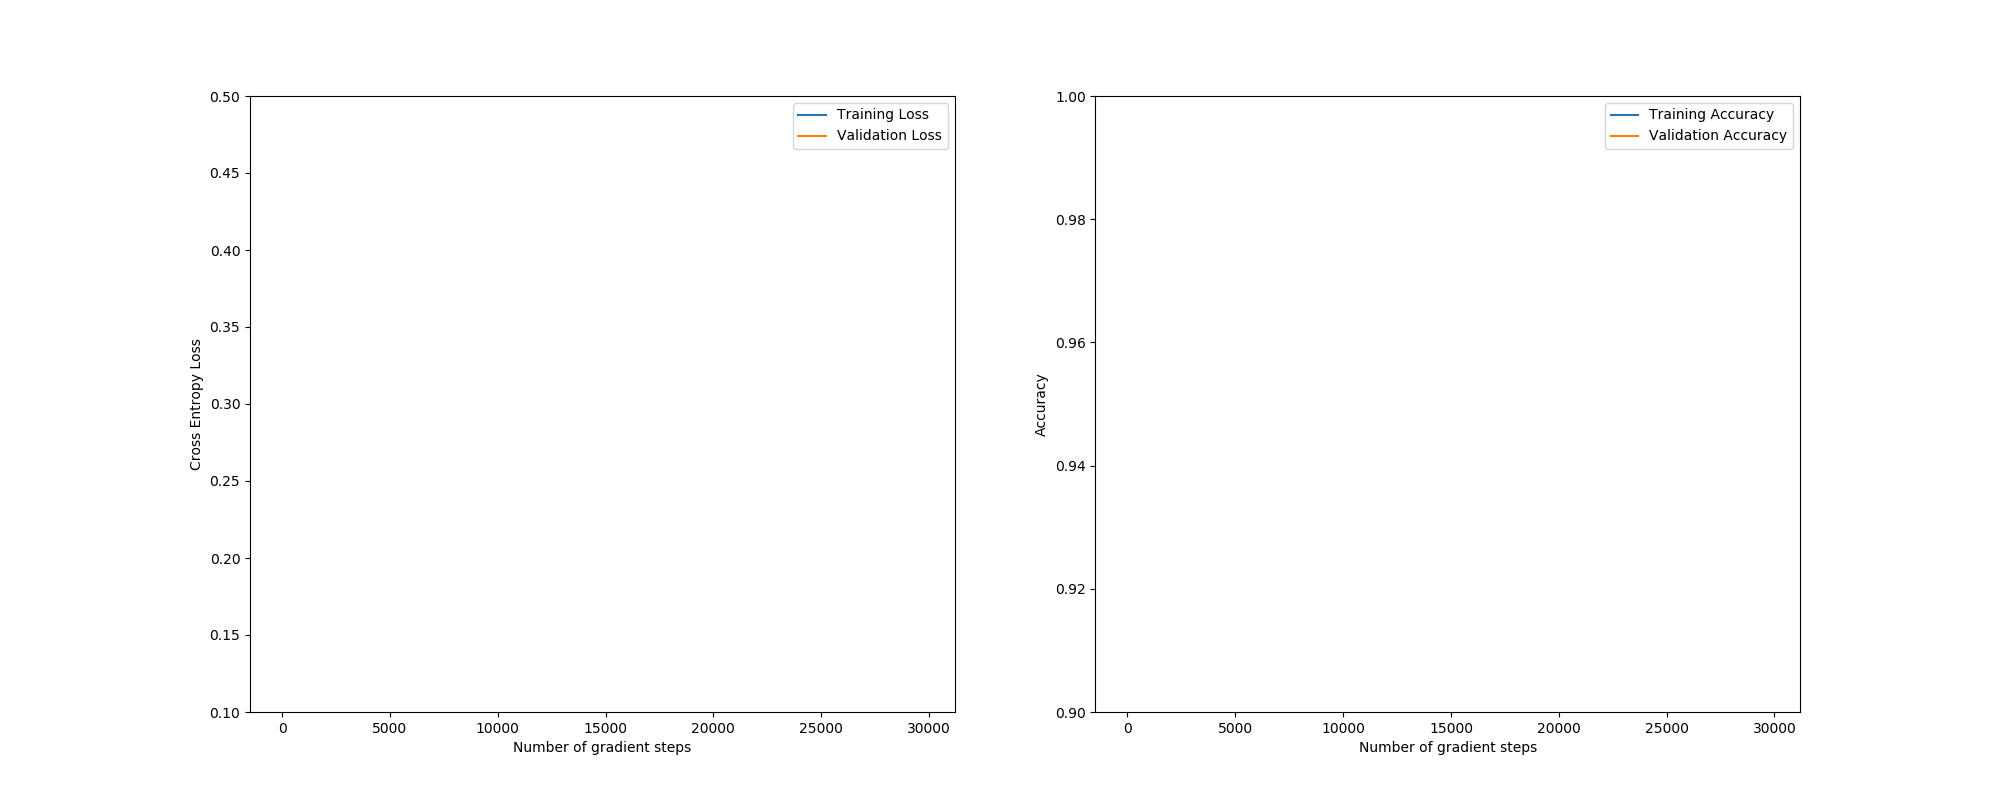
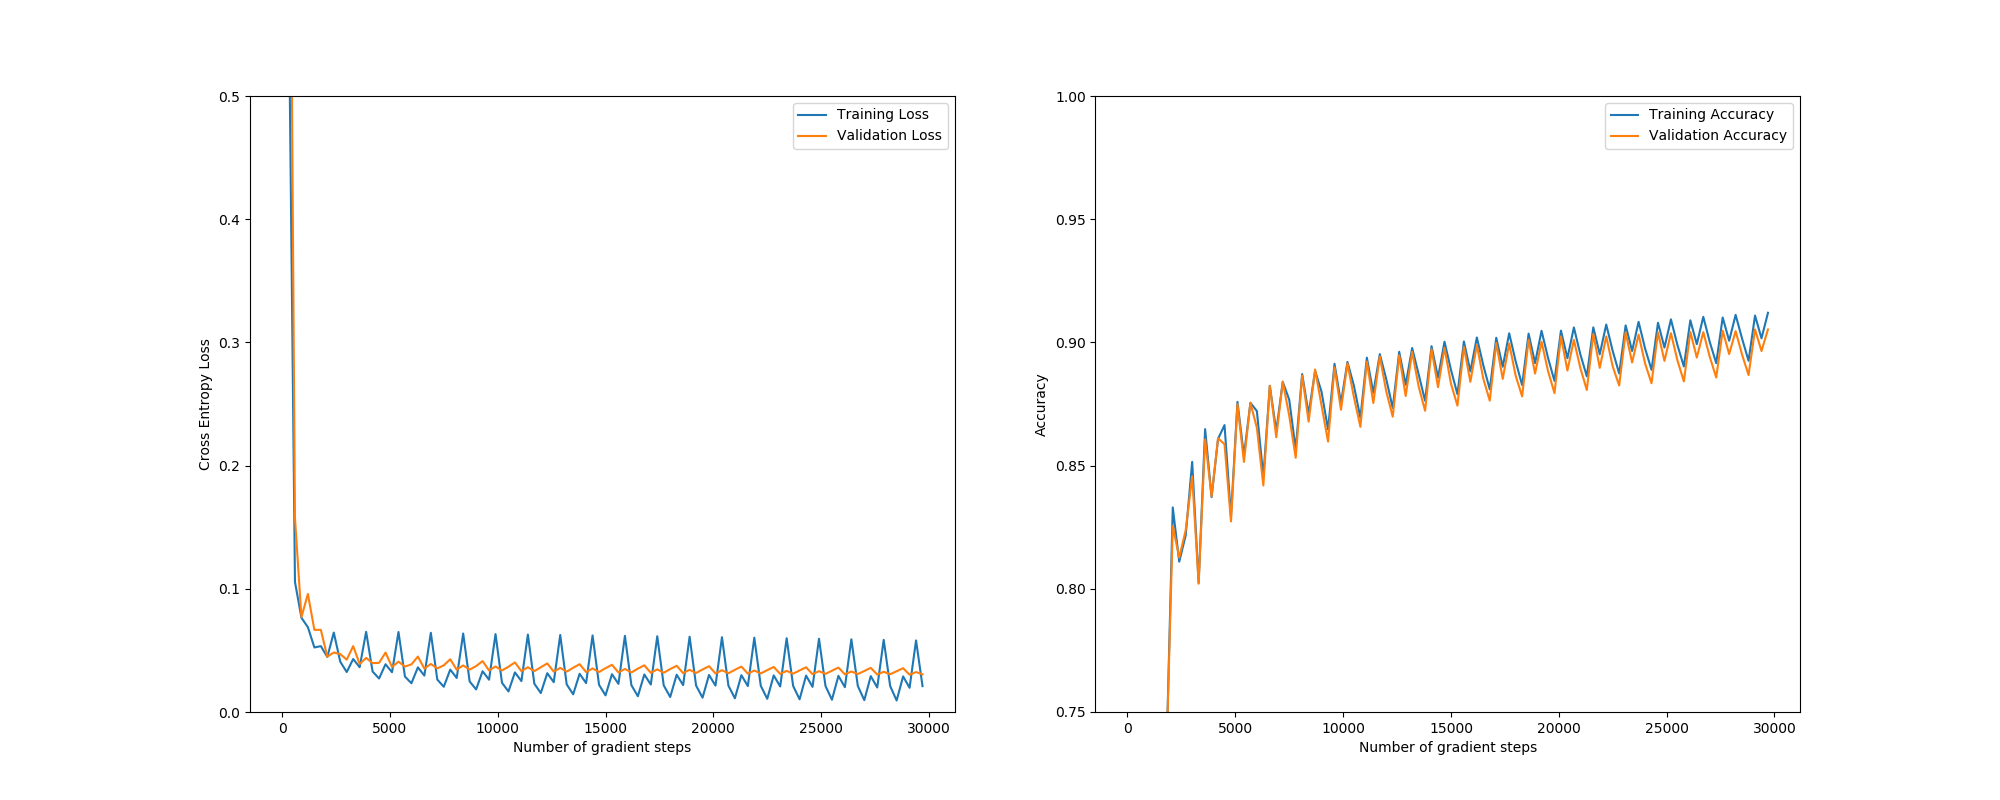
A2: task 2c - plots

diff --git a/TDT4265-StarterCode-master/assignment2/task2.py b/TDT4265-StarterCode-master/assignment2/task2.py
@@ -16,7 +16,14 @@ def calculate_accuracy(X: np.ndarray, targets: np.ndarray,
     Returns:
         Accuracy (float)
     """
-    accuracy = 0
+    number_of_predictions = X.shape[0]
+    number_of_rights = 0
+    y_hat = model.forward(X)
+    for i in range (0, number_of_predictions):
+        y_hat[i] = np.around(y_hat[i])
+        if np.array_equal(y_hat[i],targets[i]):
+            number_of_rights += 1
+    accuracy = number_of_rights/number_of_predictions
     return accuracy
 
 
@@ -56,10 +63,10 @@ def train(
             # Track train / validation loss / accuracy
             # every time we progress 20% through the dataset
             if (global_step % num_steps_per_val) == 0:
-                _val_loss = 0
+                _val_loss = cross_entropy_loss(Y_val, model.forward(X_val))
                 val_loss[global_step] = _val_loss
 
-                _train_loss = 0
+                _train_loss = cross_entropy_loss(Y_batch, y_hat)
                 train_loss[global_step] = _train_loss
 
                 train_accuracy[global_step] = calculate_accuracy(
@@ -128,7 +135,7 @@ if __name__ == "__main__":
     # Plot loss
     plt.figure(figsize=(20, 8))
     plt.subplot(1, 2, 1)
-    plt.ylim([0.1, .5])
+    plt.ylim([0.0, .5])
     utils.plot_loss(train_loss, "Training Loss")
     utils.plot_loss(val_loss, "Validation Loss")
     plt.xlabel("Number of gradient steps")
@@ -136,7 +143,7 @@ if __name__ == "__main__":
     plt.legend()
     plt.subplot(1, 2, 2)
     # Plot accuracy
-    plt.ylim([0.9, 1.0])
+    plt.ylim([0.75, 1.0])
     utils.plot_loss(train_accuracy, "Training Accuracy")
     utils.plot_loss(val_accuracy, "Validation Accuracy")
     plt.legend()

diff --git a/TDT4265-StarterCode-master/assignment2/task2a.py b/TDT4265-StarterCode-master/assignment2/task2a.py
@@ -55,7 +55,7 @@ def cross_entropy_loss(targets: np.ndarray, outputs: np.ndarray):
     ce = targets * np.log(outputs)
     ce = np.sum(ce, axis=0)
     ce = np.sum(ce)
-    ce = -1*ce
+    ce = -(1/(targets.shape[0]*targets.shape[1]))*ce
     return ce
 
 
